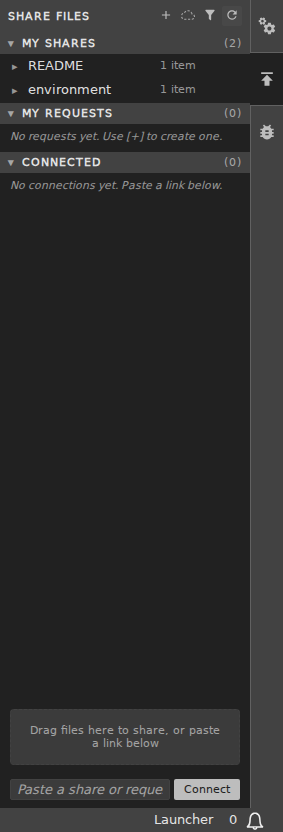
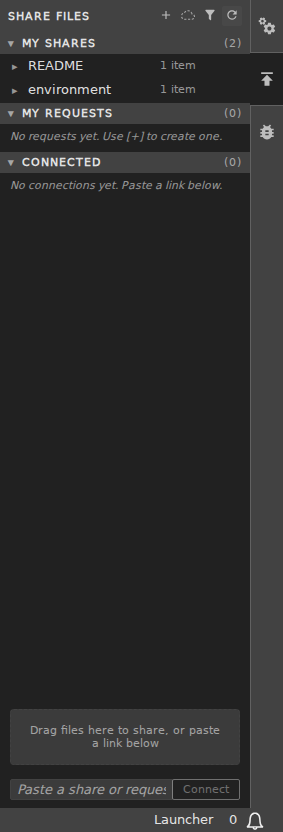
feat: release 1.2.54 - joined connect button that shows when it can be pressed
The owner chose, from ten rendered proposals, a Connect button that forms
the link input's right end and is a faded outline until a link is in. A
button that could be pressed with nothing to connect gave no sign of what
the row needed.

The disabled states fade by opacity, because the Dark High Contrast theme
sets its dim colour tokens to full white. A connection being made keeps
the fill, faded, so that row does not look empty. The input takes the
keyboard focus before the button is disabled; a disabled button dropped
the focus to the page, and a password or trust dialog returned it there.

Changed region(s): [[0.5936, 0.9375, 0.8481, 0.9688]]

diff --git a/ui-tests/tests/hub/hub-mode.spec.ts b/ui-tests/tests/hub/hub-mode.spec.ts
@@ -217,6 +217,75 @@ test('the panel offers the connect row and the Connected section', async ({
   ).toHaveText('Drag files here to share, or paste a link below');
 });
 
+test('the Connect button is the right end of the input and is disabled while the input is empty or holds only spaces', async ({
+  page,
+  request
+}) => {
+  // ACC-SHARE-183
+  const made = await foreign(request, {
+    title: 'Button State',
+    names: ['a.csv'],
+    password: 'pw'
+  });
+  await openPanel(page);
+  const input = page.locator(`${PANEL} .jp-ShareFilesPanel-connectInput`);
+  const button = page.locator(`${PANEL} .jp-ShareFilesPanel-connectButton`);
+  const fill = () =>
+    button.evaluate((b: Element) => getComputedStyle(b).backgroundColor);
+  const faded = async () =>
+    Number(await button.evaluate((b: Element) => getComputedStyle(b).opacity));
+  const clear = 'rgba(0, 0, 0, 0)';
+  // one control: the button starts on the input's right border, as tall
+  const i = (await input.boundingBox())!;
+  const b = (await button.boundingBox())!;
+  expect(Math.abs(b.x - (i.x + i.width - 1))).toBeLessThan(0.5);
+  expect(Math.abs(b.y - i.y)).toBeLessThan(0.5);
+  expect(Math.abs(b.height - i.height)).toBeLessThan(0.5);
+  // empty, or only spaces: a faded outline that does nothing
+  await expect(button).toBeDisabled();
+  expect(await fill()).toBe(clear);
+  expect(await faded()).toBeLessThan(1);
+  await input.fill('   ');
+  await expect(button).toBeDisabled();
+  // a link fills it
+  await input.fill(made.url);
+  await expect(button).toBeEnabled();
+  expect(await fill()).not.toBe(clear);
+  expect(await faded()).toBe(1);
+  // disabled while the connection is being made, whatever is typed, and
+  // still filled, faded, so the row does not look empty
+  const dialog = page.locator('.jp-Dialog');
+  await button.click();
+  await expect(dialog).toContainText('This link is password protected');
+  await expect(button).toBeDisabled();
+  await expect(button).toHaveAttribute('aria-busy', 'true');
+  expect(await fill()).not.toBe(clear);
+  expect(await faded()).toBeLessThan(1);
+  // the dialog holds the keyboard focus, so the edit is an input event
+  await input.evaluate((el: HTMLInputElement, url: string) => {
+    el.value = url;
+    el.dispatchEvent(new Event('input'));
+  }, made.url);
+  await expect(button).toBeDisabled();
+  // a connection that ends without a row keeps the link and the button
+  await dialog.locator('button', { hasText: 'Cancel' }).click();
+  await expect(dialog).toBeHidden();
+  // the click focused the button; the dialog gives the focus back to the
+  // input, not to the page
+  await expect(input).toBeFocused();
+  await expect(input).toHaveValue(made.url);
+  await expect(button).toBeEnabled();
+  await expect(button).toHaveAttribute('aria-busy', 'false');
+  // a connected link leaves the input, and the button is an outline again
+  await button.click();
+  await dialog.locator('input[type="password"]').fill('pw');
+  await dialog.locator('button', { hasText: 'Connect' }).click();
+  await expect(connected(page, 'Button State')).toHaveCount(1);
+  await expect(input).toHaveValue('');
+  await expect(button).toBeDisabled();
+  expect(await fill()).toBe(clear);
+});
+
 test('share rows show staging, ready and refused states from the hub', async ({
   page
 }) => {

diff --git a/style/base.css b/style/base.css
@@ -688,7 +688,6 @@
 /* Connect input */
 .jp-ShareFilesPanel-connect {
   display: flex;
-  gap: 4px;
   padding: 4px 10px 8px;
   flex: 0 0 auto;
 }
@@ -700,7 +699,7 @@
   min-width: 0;
   padding: 2px 6px;
   border: 1px solid var(--jp-border-color2);
-  border-radius: 2px;
+  border-radius: 2px 0 0 2px;
   background: var(
     --neutral-fill-input-rest,
     var(--jp-input-background, var(--jp-layout-color1))
@@ -710,7 +709,10 @@
   font-family: var(--jp-ui-font-family);
 }
 
+/* above the button, whose left border overlaps the input's right border */
 .jp-ShareFilesPanel-connectInput:focus {
+  position: relative;
+  z-index: 1;
   outline: none;
   border-color: var(--jp-brand-color1);
 }
@@ -720,14 +722,16 @@
   font-style: italic;
 }
 
-/* filled like an active control, in the colour of the theme's default icon
-   (.jp-icon3): the accent blue drew the eye to a button that is used rarely */
+/* the input's right end: filled in the colour of the theme's default icon
+   (.jp-icon3) once the input holds a link, the same colour as a faded
+   outline while it is empty */
 .jp-ShareFilesPanel-connectButton {
+  margin-left: -1px;
   padding: 2px 10px;
   background: var(--jp-inverse-layout-color3);
   color: var(--jp-layout-color1);
-  border: none;
-  border-radius: 2px;
+  border: 1px solid var(--jp-inverse-layout-color3);
+  border-radius: 0 2px 2px 0;
   font-size: var(--jp-ui-font-size0);
   font-family: var(--jp-ui-font-family);
   cursor: pointer;
@@ -735,11 +739,24 @@
 
 .jp-ShareFilesPanel-connectButton:hover {
   background: var(--jp-inverse-layout-color2);
+  border-color: var(--jp-inverse-layout-color2);
 }
 
+/* faded by opacity, as JupyterLab's own disabled buttons are: a high
+   contrast theme sets its dim text and border colours to full brightness */
 .jp-ShareFilesPanel-connectButton:disabled {
+  background: transparent;
+  color: var(--jp-inverse-layout-color3);
+  border-color: var(--jp-inverse-layout-color3);
   opacity: 0.5;
-  cursor: not-allowed;
+  cursor: default;
+}
+
+/* a connection being made keeps the fill, faded, so the row does not look
+   as it does with an empty input */
+.jp-ShareFilesPanel-connectButton[aria-busy='true'] {
+  background: var(--jp-inverse-layout-color3);
+  color: var(--jp-layout-color1);
 }
 
 /* Spinner */

diff --git a/src/widget.ts b/src/widget.ts
@@ -1020,15 +1020,30 @@ export class ShareFilesPanel extends Widget {
     const connectBtn = document.createElement('button');
     connectBtn.className = 'jp-ShareFilesPanel-connectButton';
     connectBtn.textContent = 'Connect';
+    // usable only while the input holds more than spaces and no connection
+    // is being made; a value set from code fires no input event, so the end
+    // of a connection sets the state again
+    let connecting = false;
+    const syncConnect = () => {
+      connectBtn.disabled = connecting || !connectInput.value.trim();
+      connectBtn.setAttribute('aria-busy', String(connecting));
+    };
+    syncConnect();
+    connectInput.addEventListener('input', syncConnect);
     connectBtn.addEventListener('click', () => {
       const link = connectInput.value.trim();
       if (link) {
-        connectBtn.disabled = true;
+        // a disabled button drops the keyboard focus to the page, so the
+        // input takes it first, and a dialog the connection opens returns it
+        connectInput.focus();
+        connecting = true;
+        syncConnect();
         void this.connectToLink(link).then(connected => {
           if (connected) {
             connectInput.value = '';
           }
-          connectBtn.disabled = false;
+          connecting = false;
+          syncConnect();
         });
       }
     });

diff --git a/docs/acc-crit.md b/docs/acc-crit.md
@@ -104,6 +104,17 @@ Entries inside a connected peer's share - open, save, drag and copy from the pan
   - log: 2026-09-23T21:39:57Z @kj closed
   - log: 2026-09-23T21:53:25Z @kj amended text "Without a flag, `jupyterlab_share_files connect <link>` fails when the link's host uses a certificate the system does not trust, such as a self-signed one, and says why. With `--trust-certificate`, the command connects anyway: it prints the host and the certificate's fingerprint, and the connection keeps that certificate until it is removed, the same as choosing Trust in the panel's dialog (ACC-SHARE-181). A certificate that cannot be used even when trusted, such as an expired one, is still refused." -> "Without a flag, `jupyterlab_share_files connect <link>` fails when the link's host uses a certificate the system does not trust, such as a self-signed one, says why and shows the certificate's fingerprint. With `--trust-certificate`, the command connects anyway: it prints the host and the certificate's fingerprint, and the connection keeps that certificate until it is removed, the same as choosing Trust in the panel's dialog (ACC-SHARE-181). A certificate that cannot be used even when trusted, such as an expired one, is still refused."
   - log: 2026-09-23T21:53:25Z @kj 2026-09-23 the refusal shows the SHA-256 fingerprint; every CLI call by connection key encodes the key as one path segment (a standalone key holds https://), so disconnect, pick-up, send-to-request and the entry listing reach the connection; the real-lab test now also disconnects by key; test_a_standalone_connection_key_is_one_path_segment
+- [x] `ACC-SHARE-183` **The Connect button is the right end of the link input and cannot be pressed while the input is empty or holds only spaces** - LOW; The Connect button sits against the link input with no gap, as the input's right end, at the input's height. While the input is empty or holds only spaces, the button is a faded outline and is disabled, so a click or Enter does nothing. With a link in the input it is filled in the colour of the theme's default icon. While a connection is being made the button is disabled, keeps its fill faded so the row does not look empty, and carries aria-busy. The faded states are drawn with opacity, so they stay faded in a high contrast theme. Pressing Connect moves the keyboard focus to the input, so disabling the button does not drop the focus to the page, and a dialog the connection opens returns the focus there. A connection that ends without a row keeps the link and the button filled; a connection that adds a row empties the input and the button is a faded outline again. The same row shows in hub mode and standalone.
+  - evidence: 2026-09-24 galata mock hub 'the Connect button is the right end of the input and is disabled while the input is empty or holds only spaces' passes, and 9 panel mutants (no connecting flag, no overlap margin, no initial state, disabled keeps its fill, input listener ignoring the flag, no opacity, no busy fill rule, no aria-busy, no input focus) each fail it; mock hub 53 passed, standalone 35, jest 45, lint 0 warnings; light, dark and Dark High Contrast renders show a faded outline, a fill and a faded fill; five-lens review rounds 3 and 4 clean
+  - test: mock hub: the button's left edge lies on the input's right border at the same top and height; empty and spaces leave it disabled with no fill and below full opacity; a link fills it at full opacity; while the password dialog is open it is disabled, aria-busy true, filled and below full opacity, even after an input event; Cancel returns the focus to the input, keeps the link, re-enables the button and sets aria-busy false; a completed connection empties the input and leaves an unfilled disabled button
+  - test-tags: FUNCTIONAL
+  - mechanism: 2026-09-24T13:02:34Z @kj src/widget.ts syncConnect sets the button's disabled state from the trimmed input value and a connecting flag, and aria-busy from the flag, on every input event and at the end of connectToLink; the click handler focuses the input before it disables the button, so the focus does not drop to the page and a dialog returns it to the input; style/base.css draws :disabled as a transparent outline in the fill colour at opacity 0.5, [aria-busy='true'] restores the fill under that opacity, and a -1px left margin lays the button's left border over the input's right border
+  - log: 2026-09-24T12:14:10Z @kj added
+  - log: 2026-09-24T12:38:25Z @kj amended title "The Connect button is the right end of the link input and can be pressed only with a link in it" -> "The Connect button is the right end of the link input and cannot be pressed while the input is empty or holds only spaces"; text "The Connect button sits against the link input with no gap, as the input's right end, at the input's height. While the input is empty or holds only spaces, and while a connection is being made, the button is a dim outline and is disabled, so a click or Enter does nothing. With a link in the input it is filled in the colour of the theme's default icon. A connection that ends without a row keeps the link and the button filled; a connection that adds a row empties the input and the button is dim again. The same row shows in hub mode and standalone." -> "The Connect button sits against the link input with no gap, as the input's right end, at the input's height. While the input is empty or holds only spaces, the button is a faded outline and is disabled, so a click or Enter does nothing. With a link in the input it is filled in the colour of the theme's default icon. While a connection is being made the button is disabled, keeps its fill faded so the row does not look empty, and reports itself busy to screen readers. The faded states are drawn with opacity, so they stay faded in a high contrast theme. A connection that ends without a row keeps the link and the button filled; a connection that adds a row empties the input and the button is a faded outline again. The same row shows in hub mode and standalone."
+  - log: 2026-09-24T12:38:40Z @kj edited test (replaced)
+  - log: 2026-09-24T13:02:34Z @kj amended text "The Connect button sits against the link input with no gap, as the input's right end, at the input's height. While the input is empty or holds only spaces, the button is a faded outline and is disabled, so a click or Enter does nothing. With a link in the input it is filled in the colour of the theme's default icon. While a connection is being made the button is disabled, keeps its fill faded so the row does not look empty, and reports itself busy to screen readers. The faded states are drawn with opacity, so they stay faded in a high contrast theme. A connection that ends without a row keeps the link and the button filled; a connection that adds a row empties the input and the button is a faded outline again. The same row shows in hub mode and standalone." -> "The Connect button sits against the link input with no gap, as the input's right end, at the input's height. While the input is empty or holds only spaces, the button is a faded outline and is disabled, so a click or Enter does nothing. With a link in the input it is filled in the colour of the theme's default icon. While a connection is being made the button is disabled, keeps its fill faded so the row does not look empty, and carries aria-busy. The faded states are drawn with opacity, so they stay faded in a high contrast theme. Pressing Connect moves the keyboard focus to the input, so disabling the button does not drop the focus to the page, and a dialog the connection opens returns the focus there. A connection that ends without a row keeps the link and the button filled; a connection that adds a row empties the input and the button is a faded outline again. The same row shows in hub mode and standalone."
+  - log: 2026-09-24T13:02:34Z @kj edited test (replaced)
+  - log: 2026-09-24T13:15:55Z @kj closed
 
 ## Cloudflare integration `CLOUD`
 

diff --git a/.claude/JOURNAL.md b/.claude/JOURNAL.md
@@ -204,3 +204,7 @@ This journal tracks substantive work on documents, diagrams, and documentation c
     **Result**: The owner's goal left no room for deferred findings. The `password changed` label now wraps inside a row that grows (`min-height`, badge `line-height: 1.2`) instead of spilling over its neighbours. A request closed mid-upload says "The upload to <name> ended", once; a drop onto a row showing `offline` says the upload has started. The request page's `var cap`, cached with the row, lets `HubConnectionUploadHandler.post` refuse over-limit files before anything is sent: 413 "This request accepts files up to <limit>; <names> is larger", limit first so the 140-character notice cannot cut it, rounded down by `_size_text`, shown as the amber not-sent notice. `tests/_stubs.py` replaces a factory copied into four test files. Rounds 20-26 each fixed their findings; pytest 483, jest 45, galata 52 and 35 green.
 98. **Task - Release of connections through the record link, certificate trust in panel and CLI, and the review fixes** (v1.2.52): entries 91 to 97 go out as 1.2.53 through `make publish`<br>
     **Result**: The release carries hub connections that read another user's record through its link with no hub token; the trust dialog for a peer certificate the system does not trust, kept per connection, and `connect --trust-certificate` for the command line; the CLI reaching standalone connections by an encoded key; the fixes from 27 review rounds - past-tense upload reasons, notices when a disconnect or a closed record ends an upload, refused drops and pastes that keep the clipboard, an over-limit file named before anything is sent, the `password changed` label kept inside its row; the grey Connect button; dependencies and Makefile 1.41. Two earlier `make publish` runs stopped in the isolated build before any upload, so 1.2.51 and 1.2.52 were never published. Green before publish: pytest 483, jest 45, galata 52 and 35.
+99. **Task - joined Connect button that shows when it can be pressed** (v1.2.53): owner's pick from ten SVG proposals, proposal 10 joined like proposal 6, ACC-SHARE-183<br>
+    **Result**: Button now forms the input's right end: faded outline while the input is blank, fill in `--jp-inverse-layout-color3` once a link is in. `style/base.css` drops the gap and overlaps the borders with `margin-left: -1px`; `:disabled` fades by `opacity: 0.5` in the fill colour, as 1.2.53 and JupyterLab's own disabled buttons do, because Dark High Contrast sets its dim tokens to white; `[aria-busy='true']` keeps the fill while connecting, so that row does not look empty. In `src/widget.ts`, `syncConnect` sets disabled and aria-busy from the trimmed input and a connecting flag; the click focuses the input first, because a disabled button dropped keyboard focus to the page (older defect). New galata test, failed by 9 mutants; README screenshot retaken. Five-lens review, 4 rounds: 4 fixes; an undo request declined because it assumed the owner wrote the first criterion wording; rounds 3-4 clean. Green: galata 53 and 35, jest 45, pytest 483, lint 0.
+100. **Task - Release of the joined Connect button** (v1.2.53): entry 99 goes out as 1.2.54 through `make publish`<br>
+    **Result**: The release carries the owner's chosen Connect button, joined to the link input as its right end: a faded outline while the input is blank, a fill in the theme's icon colour once a link is in, and a faded fill while a connection is made. Disabled states fade by opacity, so the Dark High Contrast theme fades them too. Pressing Connect keeps the keyboard focus in the input, where a password or trust dialog returns it. Green before publish: galata mock hub 53 and standalone 35, jest 45, pytest 483 passed 8 skipped, lint 0 warnings; five-lens review rounds 3 and 4 clean.

diff --git a/CHANGELOG.md b/CHANGELOG.md
@@ -2,6 +2,17 @@
 
 <!-- <START NEW CHANGELOG ENTRY> -->
 
+## [1.2.54] - 2026-09-24
+
+### Changed
+
+- The Connect button is the right end of the link input, with no gap between them. It is a faded outline and cannot be pressed while the input is empty or holds only spaces, is filled in the colour of the theme's icons once a link is in, and keeps its fill, faded, while a connection is being made
+- The disabled Connect button is faded by opacity, so it also looks disabled in the Dark High Contrast theme
+
+### Fixed
+
+- Pressing Connect from the keyboard keeps the focus in the link input; before, the focus dropped to the page, and a password or trust dialog returned it there
+
 ## [1.2.53] - 2026-09-24
 
 ### Added
